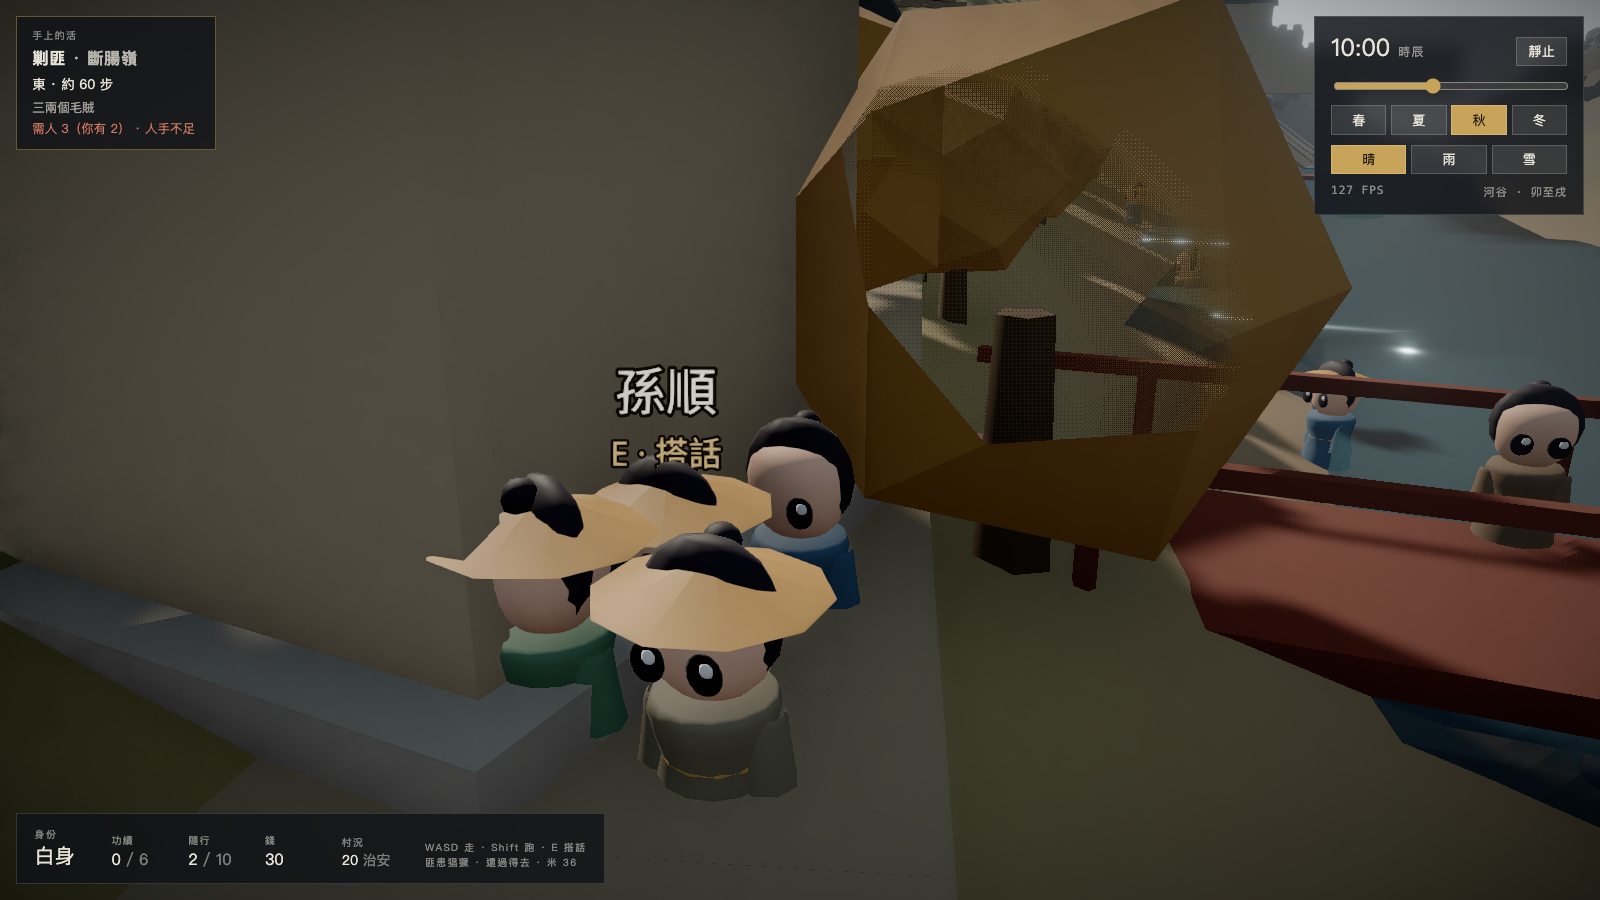
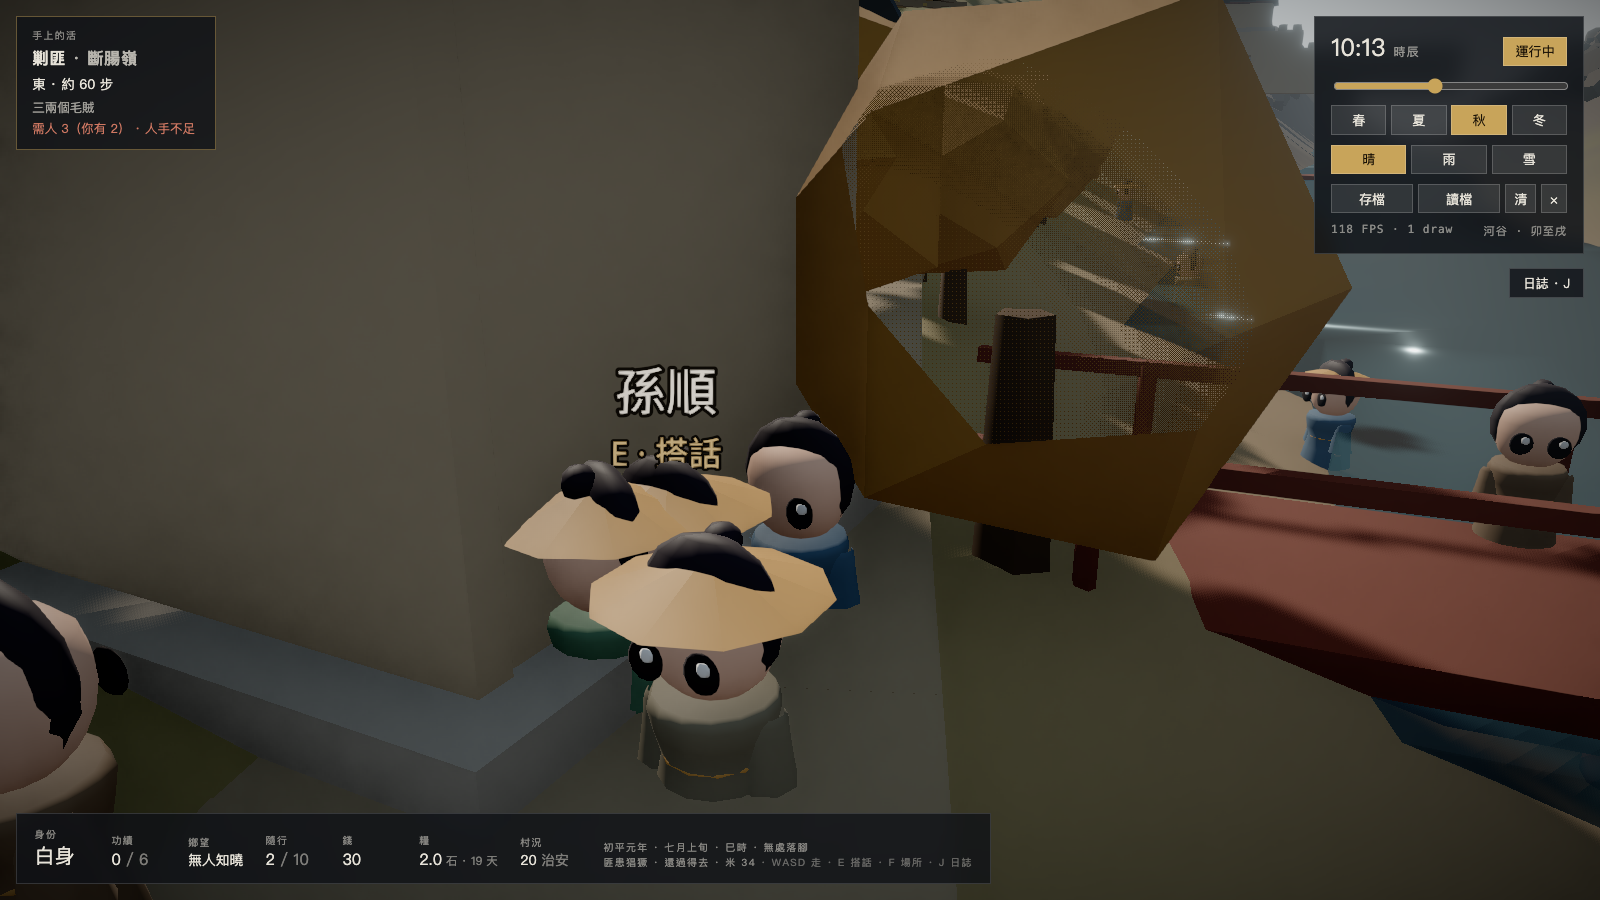
docs: README 補上這一輪加的東西與踩出來的規矩
規矩那一節重新分成四組(世界與畫面 / 規則與數值 / 介面與世界的接縫 / 驗收)。
新加的幾條裡有三條是同一種形狀,值得單獨記住:

- 「誰比誰高」全部成立,數字仍然可以錯二十倍。
- 驗權重不能靠「把門檻壓到極低看回傳哪一種」—— 那量到的是迴圈順序。
- 一個函式的註解說它「每旬推一次」,就別每天叫它。

三次都是測試寫得像在驗東西,其實一句話都沒說。

diff --git a/README.md b/README.md
@@ -13,24 +13,35 @@ npm test         # 戰鬥手感的模擬(vitest)
 npm run build
 ```
 
-WASD 走、Shift 跑、E 搭話、空白鍵揮刀。
+WASD 走、Shift 跑、**E 搭話**、**F 用場所**、空白鍵揮刀、J 日誌。
 
 ## 現在能玩到什麼
 
 - **世界**：程序化河谷 —— 高度場、河、聚落、農田、道路、四季植被、晝夜與天氣。
   一切隨時間變的東西都從單一 `skyFor(hour, season, weather)` 導出，
   各算各的下場是黃昏的太陽配上正午的霧。
-- **人**：三十八個有名有姓的村民，各有行當、脾氣、年紀。按時辰出門下田、趕集、歸家，
-  路上相遇會停下交談。「有人住」不是靠人多，是靠他們各有各的去處。
-- **差事**：活從人嘴裡給，不從選單刷。按行當配活、按身分封頂難度，攤開需要的人手。
-  剿匪指的是**地圖上真的那一夥**：接了活它就告訴你往哪走、還有多少步，
-  你自己走過去、自己打、再走回來覆命。沒人託你，打贏了也只是私鬥 ——
-  錢是你搶的，功勞得有人記。
-- **招募**：門檻由脾氣決定 —— 直脾氣講義氣，怕事的得欠你很多。
-  有名有姓的伙伴和無名鄉勇分開存：你會記得「王安是第一個跟我走的」，
-  不會記得「鄉勇 +1」。
+- **日子**：十日一旬，三旬一月，四季一年。時間會拿走東西 ——
+  每天要吃糧、每旬要交租、每年秋後稅吏上門。
+  在有曆法之前，「今天第幾天」算出來永遠是 0，村子從開局起就沒動過。
+- **生計**：糴米糶米、下田扛包砍柴、賃屋置屋、睡一覺到天亮。
+  每個動作都寫明花幾個時辰 —— 這個遊戲真正稀缺的是時間，不是錢。
+- **人**：三十八個有名有姓的村民，各有行當、脾氣、年紀、**籍貫與親眷**。
+  他們會老、會病、會歿；你做的事會沿著血緣傳出去。
+  跟著你的人有心思，要走之前一定先抱怨。
+- **兩套名聲**：官府記的「功績」和鄉里傳的「鄉望」是兩回事。
+  剿賊記功；扶老賑饑官府一個字不寫，可是全村都知道 —— 而招人看的是後者。
+- **差事**：活從人嘴裡給，不從選單刷。剿匪、搶收、護院、尋人都要**自己走出去辦**：
+  剿匪指的是地圖上真的那一夥；搶收是你在田裡做的那幾趟工；
+  護院是天亮時你人在不在村裡；尋人是那個人真的蹲在田埂上，找到還得把他帶回去。
 - **打架**：不切場景，架就在你站的這塊地上打。沒有血條，傷勢用姿態講。
-  士氣歸零就轉身跑 —— 真實的械鬥多半不是打到全滅。
+  士氣歸零就轉身跑。打贏可以招安 —— 收下來的人要吃你的糧。
+- **賊會下山**：治安差、秋收前後，他們成夥往村子走。你攔得住就攔，
+  攔不住村子就挨這一下。天黑以後他們老遠就看得見你。
+- **天災**：旱、澇、蝗、疫。災年散糧賑濟換不到一個銅錢，
+  換到的是全村都知道你在最難的時候拿出了東西。
+- **出身**：五種來歷 —— 佃農之子、破落士族、行商之後、逃卒、游俠兒。
+  它們不給你技能，給的是一副底子、一點家當，以及村裡人一開始怎麼看你。
+- **聲音**：腳步、刀風、蟲鳴、雨，全部現算，不帶一個音檔。
 
 ## 目錄
 
@@ -45,6 +56,8 @@ WASD 走、Shift 跑、E 搭話、空白鍵揮刀。
 
 ## 幾條踩出來的規矩
 
+**世界與畫面**
+
 - 顏色烘進 `color` attribute + 材質開 `vertexColors`，一個 InstancedMesh 才能有多種顏色 ——
   這一步讓動畫與批次不再互斥。
 - 高度函式必須是純函式，並且網格頂點與物件放置**共用同一份**，
@@ -53,21 +66,50 @@ WASD 走、Shift 跑、E 搭話、空白鍵揮刀。
   敞開的堂屋擋鏡頭卻不能擋人（不然村民會被自家卡死）。
 - 圓形障礙要走切線。一步只有幾公分，貼上樹幹以後兩個軸都還在圓裡，
   人就永遠黏在那棵樹上；一叢樹圍成的凹角連切線也過不去，所以自動尋路要能往兩邊偏著試。
-- 鏡頭求解是三段：**先繞、再抬、最後才收近**。正後方被一棵樹卡住不代表側後方也不行；
-  人站在樹冠底下時抬高沒有用 —— 爬過樹梢只會看到一片樹頂，人被葉子蓋住。
-- 會走路的東西一律問 `groundAt()` 而不是 `terrainHeight()`，否則橋只是擺著看的：
-  主角會從橋底下趟過河，而對岸永遠去不了。畫面上看得見、腳下走不到，比沒有這座橋更糟。
+- 鏡頭求解是三段：**先繞、再抬、最後才收近**。人站在樹冠底下時抬高沒有用。
+  退無可退時要退到「擋得最少」的那個位置，而不是梯級的最後一階 ——
+  貼著後腦勺是所有壞位置裡最壞的一個。
+- 擋在鏡頭與主角之間的樹自己讓開。按「離鏡頭多近」篩兩頭不討好：
+  調小了中間那棵照樣糊住你，調大了走在林子裡整片林子跟著融化。
+  該問的是**擋不擋著你** —— 判斷是一根鏡頭指向主角的圓柱。
+- 會走路的東西一律問 `groundAt()` 而不是 `terrainHeight()`，否則橋只是擺著看的。
+- 盯 draw call，不是三角形數。三角形再多，一次畫完就不痛。
+
+**規則與數值**
+
 - 戰鬥手感只能空跑一千場調，不能看畫面調 —— 見 `src/game/combat.balance.test.ts`。
 - 差事卡上寫「需人 5」，帶了 5 個就得真的打得贏。這個數字是空跑出來的（`menNeeded`），
-  而且測試**直接引用同一個函式**：各抄一份，兩邊遲早漂移，
-  而漂移的那天畫面上什麼都看不出來 —— 玩家只會覺得這遊戲騙人。
-  （早先寫成 `count - 1 + fierce`，毛賊那一段還對，到五個兇賊就成了謊：
-  它說帶 6 個，帶 6 個的真實勝率是 16%。兇悍不是加法。）
-- 「他是主角」和「他由外面推」是兩件事。合成一個 `isPlayer` 的時候，
-  空跑的場子裡主角成了一尊木頭：不動、不揮刀，還照樣吸引兩個賊來砍 ——
-  於是量出 4% 勝率，而那個數字量的是**測試少了一個人**，不是遊戲難。
-- 擋在鏡頭與主角之間的樹要自己讓開。按「離鏡頭多近」篩兩頭不討好：
-  調小了中間那棵照樣糊住你，調大了走在林子裡整片林子跟著融化。
-  該問的是**擋不擋著你** —— 判斷改成一根鏡頭指向主角的圓柱，柱子裡的像素才篩掉。
-- 鏡頭求解在退無可退時要退到「擋得最少」的那個位置，不是梯級的最後一階；
-  最後一階（貼著後腦勺）是所有壞位置裡最壞的一個。
+  而且測試**直接引用同一個函式**：各抄一份，兩邊遲早漂移。
+  （早先寫成 `count - 1 + fierce`，到五個兇賊就成了謊：它說帶 6 個，實際勝率 16%。）
+- 「他是主角」和「他由外面推」是兩件事。合成一個 `isPlayer`，
+  空跑的場子裡主角就成了一尊不動也不揮刀的木頭 —— 量出的 4% 勝率量的是測試少了一個人。
+- **「誰比誰高」全部成立，數字仍然可以錯二十倍。** 病死率第一版每條比較都過，
+  而七十歲的人每天有一成六的機會病倒。要另外立一條真正的規格：空跑一年，死不到五個。
+- **驗權重不能靠「把門檻壓到極低看回傳哪一種」** —— 那量到的是迴圈順序。要真的擲四千次去數。
+- 一個函式的註解說它「每旬推一次」，就別每天叫它。村況的數字是按旬寫的，
+  照天推是六天把一村的收成歸零 —— 世界不是變嚴酷，是時間單位錯了十倍。
+
+**介面與世界的接縫**
+
+- 同一個位置上兩件事都成立時，**不該由程式替玩家猜哪一件**。
+  E 兼管「搭話」和「進場所」的下場是市集和碼頭永遠進不去 —— 那兩處整天站著人。
+- 場所要掛在世界既有的錨點上（房子的門前一步是現成的），不能憑座標點一個地方，
+  不然玩家走過去會卡在別人家的牆裡。
+- 世界可以對你不利，但**不能瞞著你**。糧見底、租到期、有人走了，
+  都要在日誌上留一句話，否則玩家會覺得遊戲在偷偷扣他的東西。
+- 打聽來的情報必須是真的，從世界的實際狀態讀。**假情報比沒有情報更糟** —— 玩家會學會不聽。
+- 要走之前一定先抱怨。沒有預兆的離開像是系統在耍人；抱怨過一次再走，那是他自己的決定。
+- 純函式管「這個人是誰」，另一份可變狀態管「後來他怎麼了」。
+  在 `makeVillagers` 裡多抽一次 `rand()`，整村的名字和年紀都會換一批人。
+
+**驗收**
+
+- Playwright 一定要 `headless: false`（SwiftShader 什麼都畫不出來）且 `page.bringToFront()`
+  （macOS 把被遮住的視窗節流到 1 FPS）。
+- 等 window 把手用 `waitForFunction`，不要等一個猜出來的秒數。
+  曾因此量到玩家用 0.25 m/s 走路，查了三輪才發現只是頁面沒載好。
+- 「到了沒」要比對**是不是那個地方**。只問「腳下有沒有地方」的話，
+  站在市集上就算到了碼頭，後面每一步都在對著錯的面板點按鈕。
+- 加一個開場等於一次弄壞所有腳本。所以標題頁只是蓋在世界上面的一層，
+  世界一開始就掛著，並且留 `__begin()` 讓腳本跳過。
+- 聲音壞掉的樣子就是安靜，和沒做完全一樣 —— 要問音訊圖有沒有建起來，不能靠耳朵。
